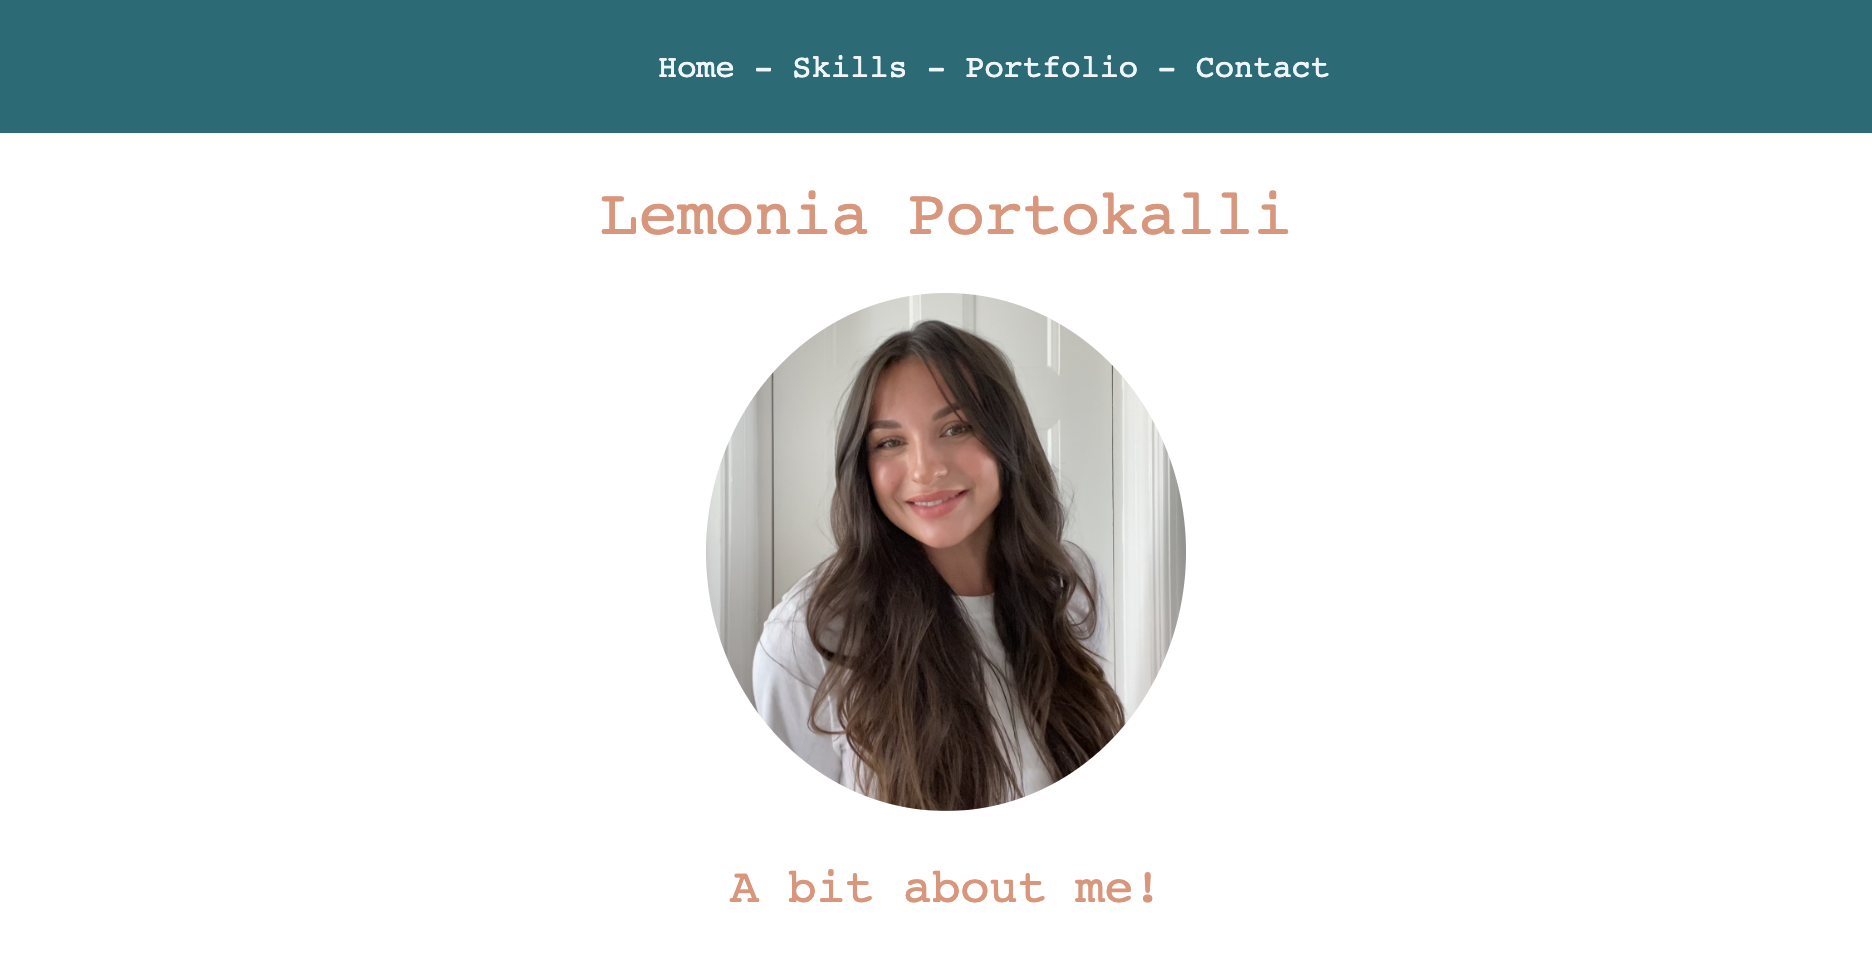
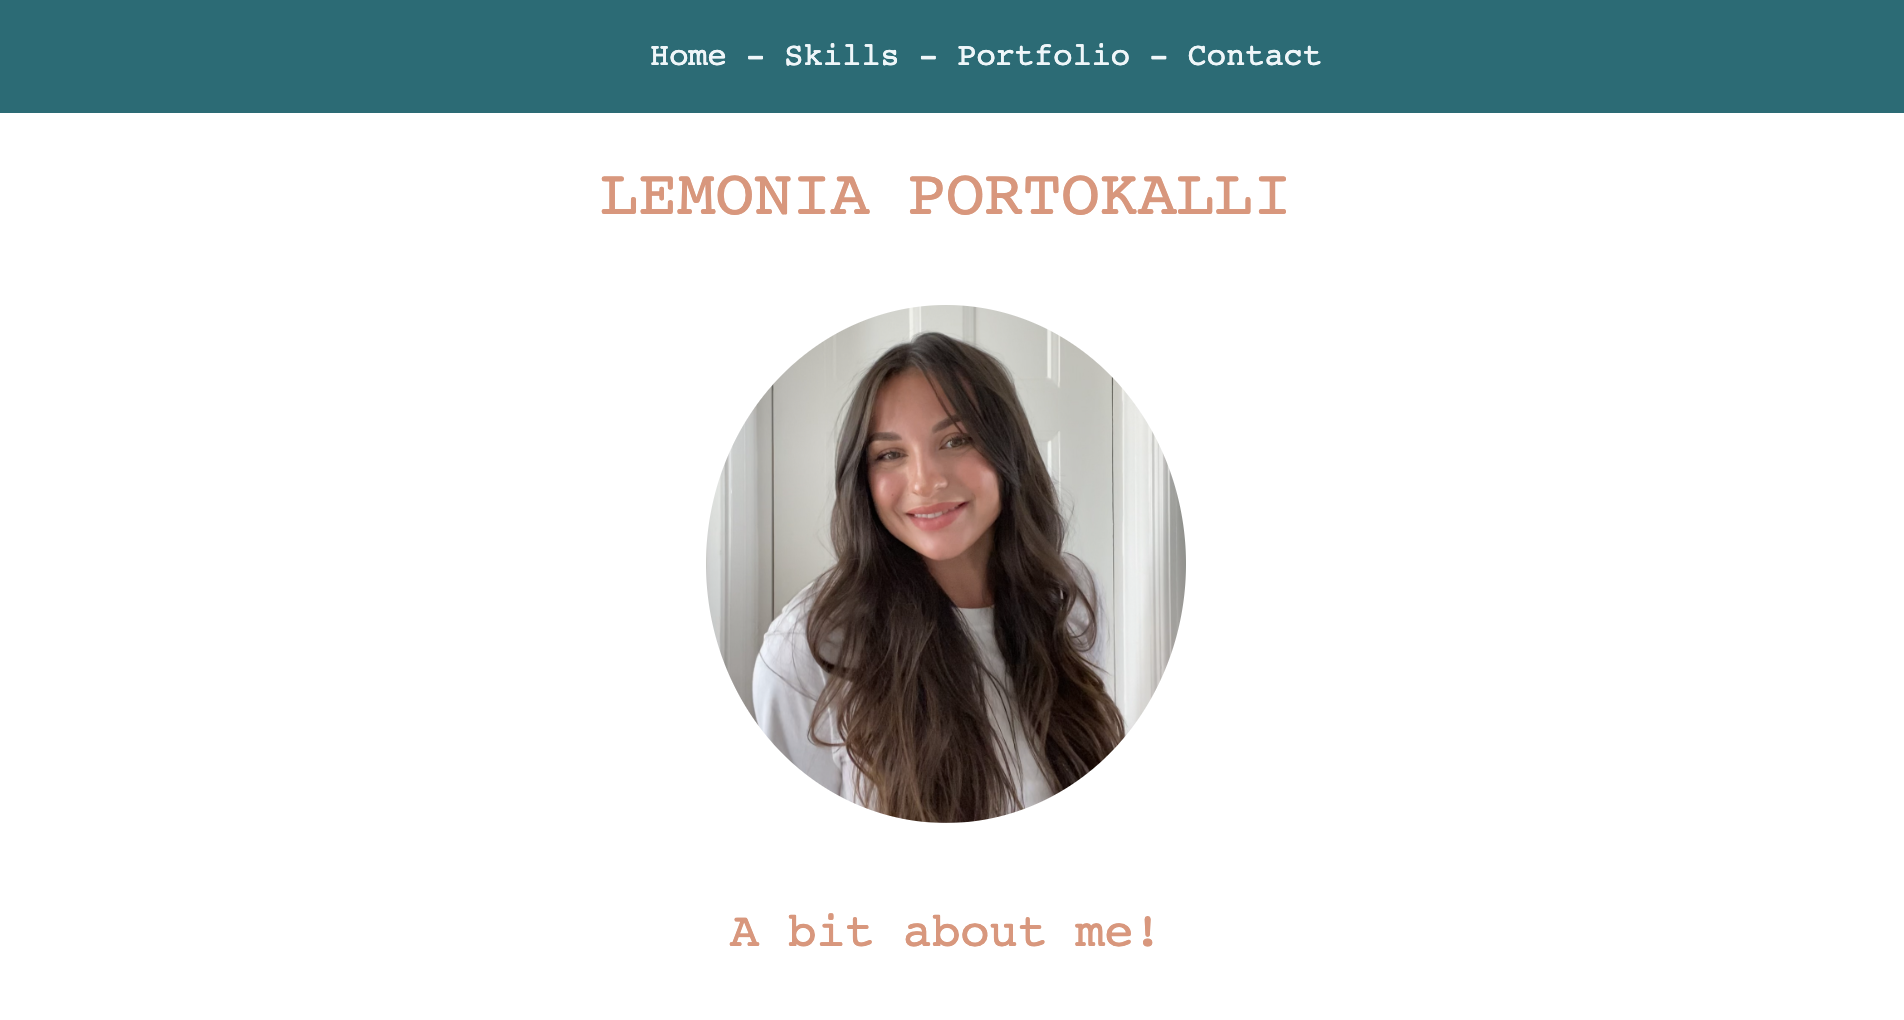
nav added versions for narrower devices

Changed region(s): [[0.0, 0.0307, 1.0, 0.2459], [0.3718, 0.3074, 0.6506, 0.8299], [0.3718, 0.8914, 0.6197, 0.9529]]

diff --git a/style.css b/style.css
@@ -14,6 +14,7 @@ h1{
     font-size: 2em;
     font-weight: 400;
     color: #e29578;
+    text-transform: uppercase;
 }
 
 h2, h3, h4, h5, h6{
@@ -32,8 +33,8 @@ p{
 nav{
     color: #edf6f9;
     background-color:#006d77;
-    width: 100%;
-    padding: 1.5em;
+    width: 95%;
+    padding: 1.25em;
 }
 
 nav a:link, nav a:visited, nav a:active{
@@ -53,7 +54,7 @@ iframe {
 
 .paragraph-more-text{
     margin: auto;
-    width: 60%;
+    width: 100%;
     padding: 10px;
     display: inline-block;
     text-align: left;
@@ -117,6 +118,13 @@ a:active { /* selected link */
         display: inline-block;
         text-align: left;
     }
+
+    nav{
+        color: #edf6f9;
+        background-color:#006d77;
+        width: 100%;
+        padding: 1.25em;
+    }
 }
 
 @media
@@ -128,6 +136,13 @@ a:active { /* selected link */
         display: inline-block;
         text-align: left;
     }
+
+    nav{
+        color: #edf6f9;
+        background-color:#006d77;
+        width: 100%;
+        padding: 1.25em;
+    }
 }
 
 @media
@@ -138,5 +153,12 @@ a:active { /* selected link */
         padding: 10px;
         display: inline-block;
         text-align: left;
+    }
+
+    nav{
+        color: #edf6f9;
+        background-color:#006d77;
+        width: 100%;
+        padding: 1.25em;
     }
 }
